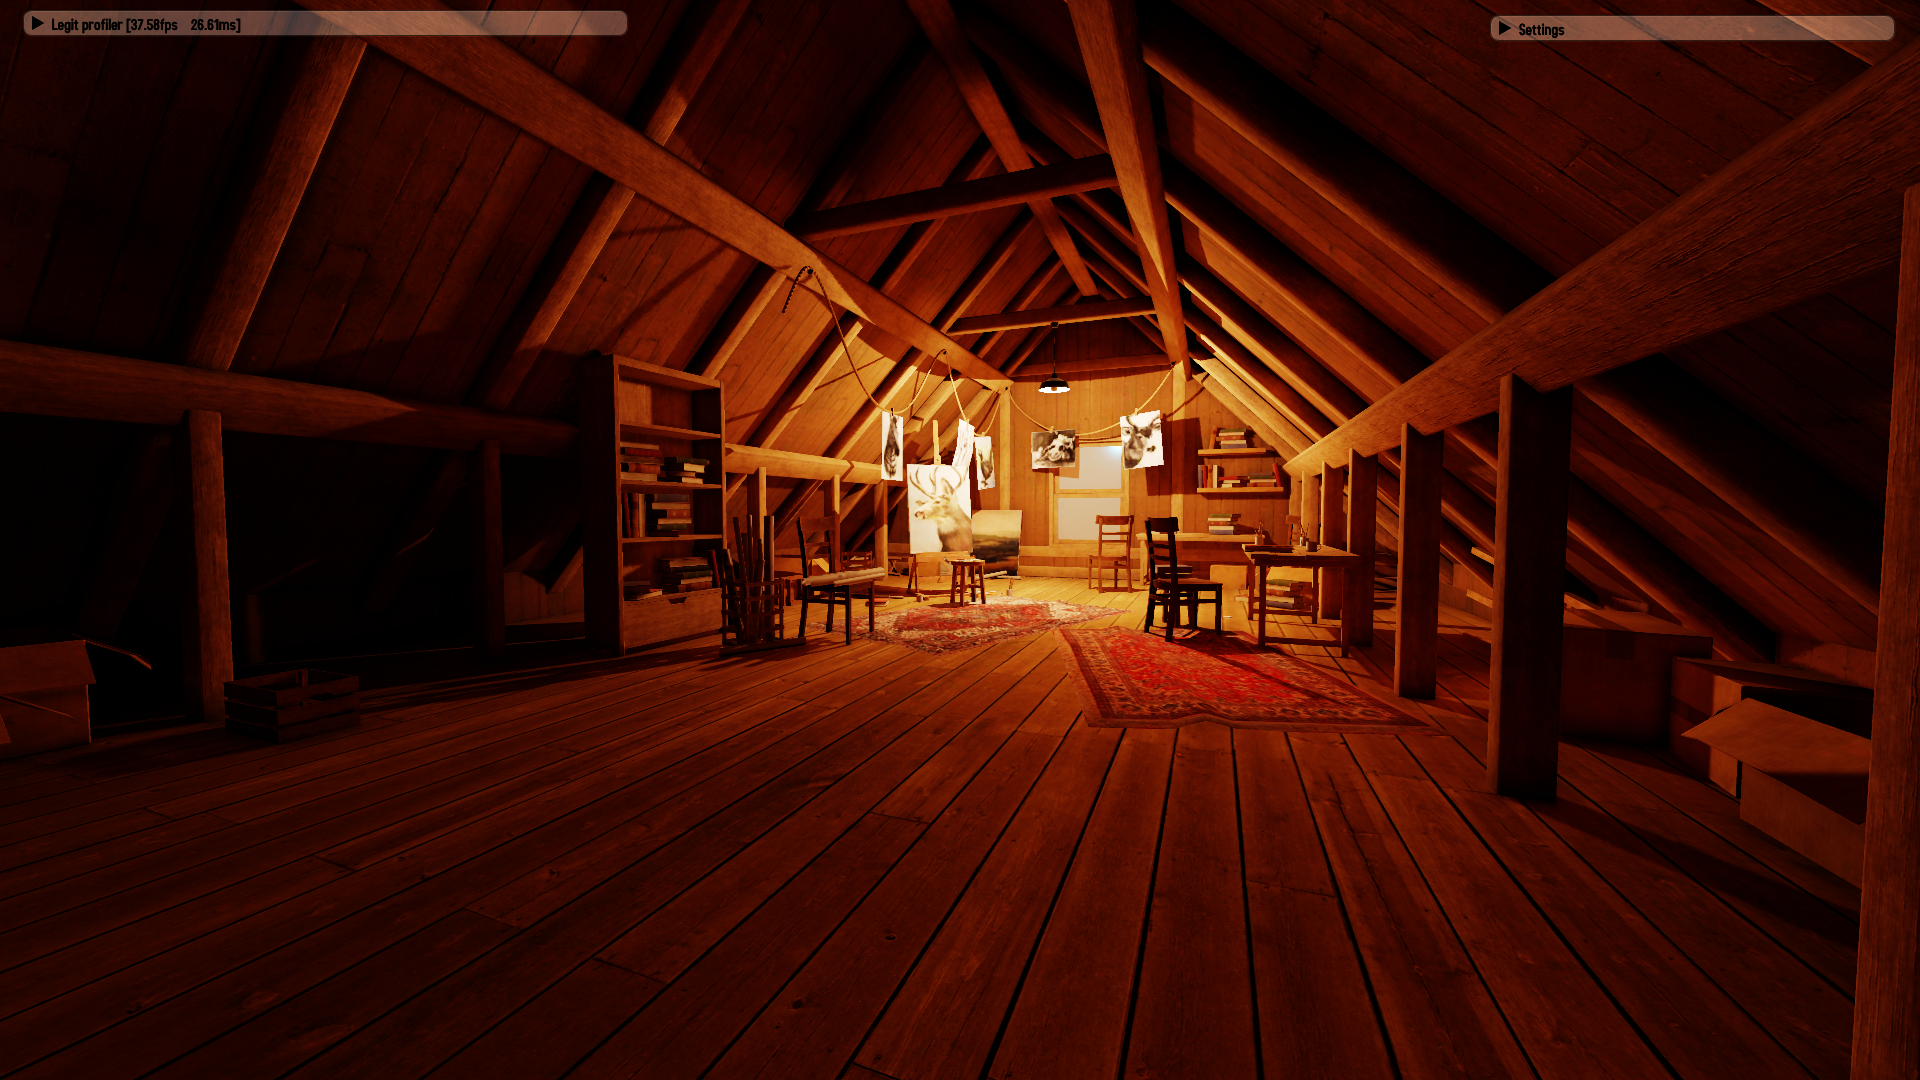
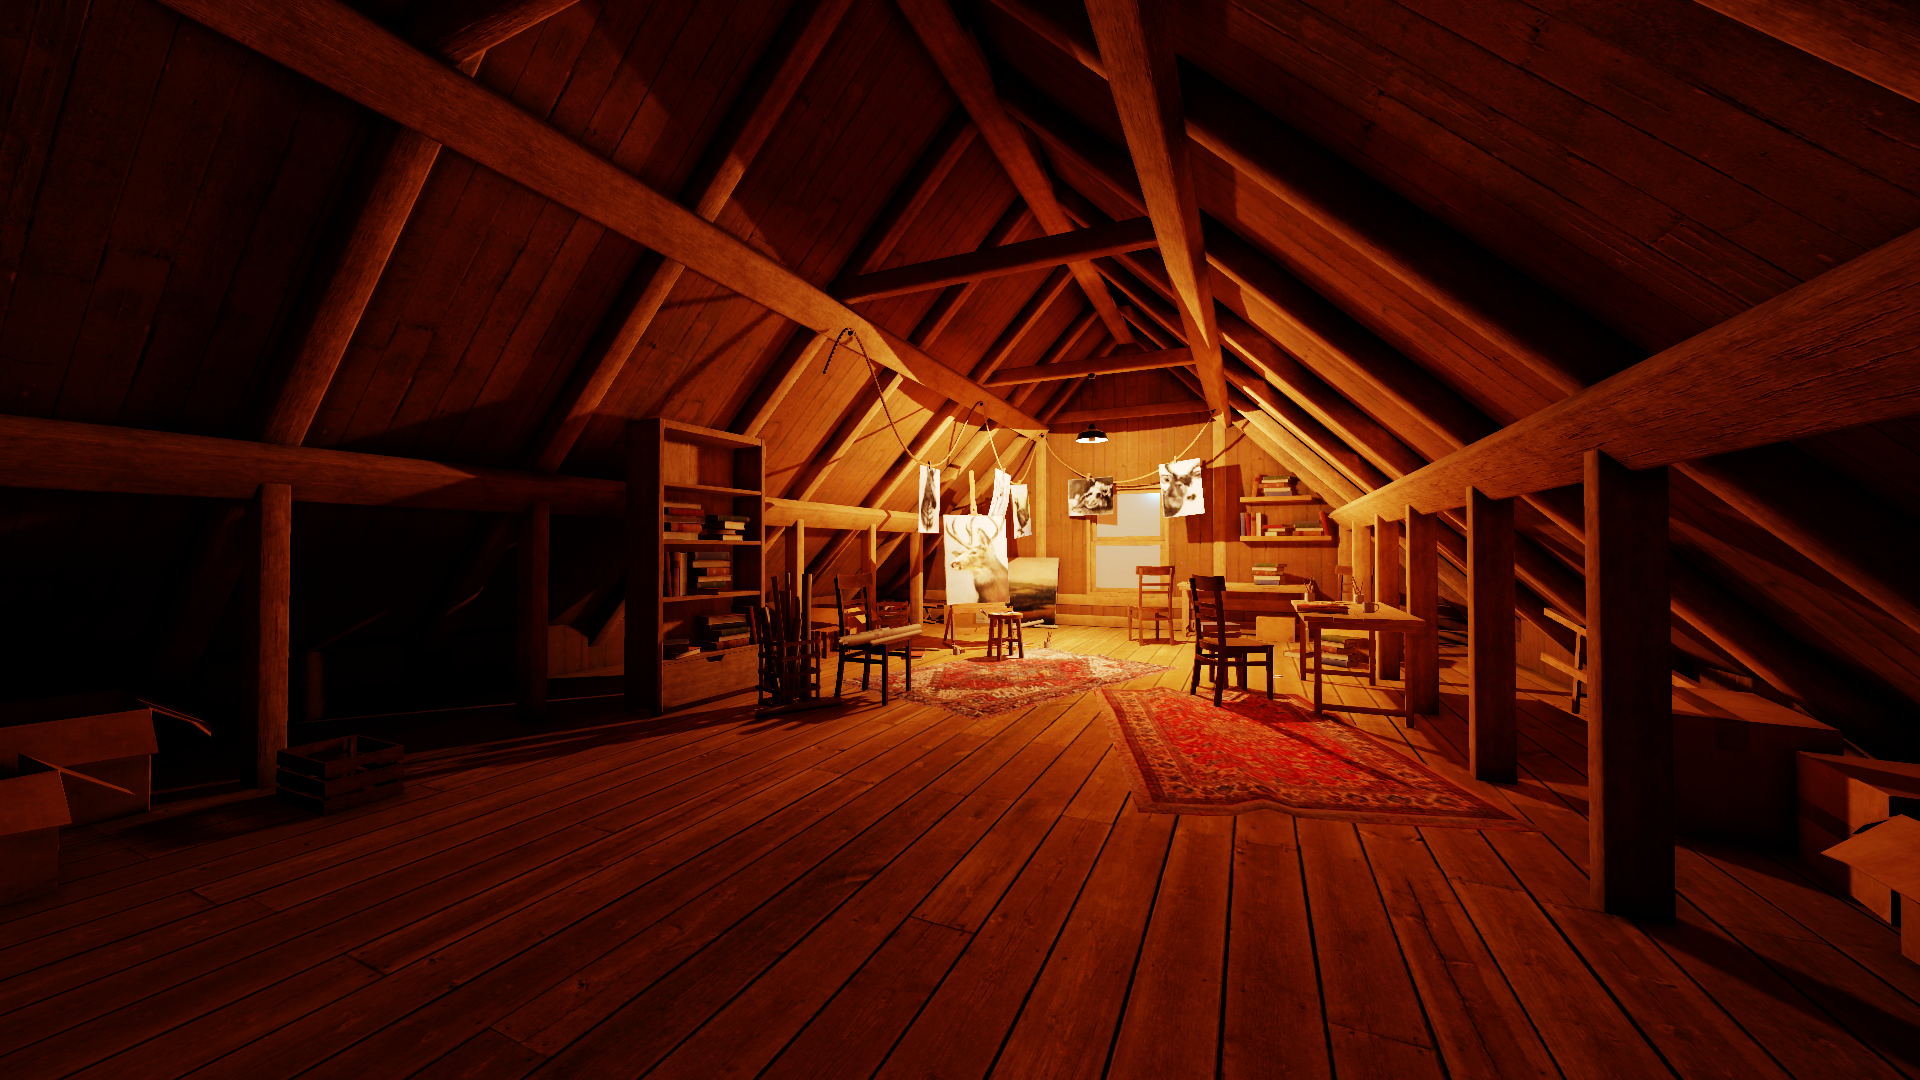
+image +small sync optimization

diff --git a/src/rendering/renderer/GI.h b/src/rendering/renderer/GI.h
@@ -46,9 +46,9 @@
 #define DDGI_PROBE_VISIBILITY_SIDE_SIZE 8
 #define DDGI_PROBE_LIGHT_SIDE_SIZE_WITH_BORDERS (DDGI_PROBE_LIGHT_SIDE_SIZE + 2)
 #define DDGI_PROBE_VISIBILITY_SIDE_SIZE_WITH_BORDERS (DDGI_PROBE_VISIBILITY_SIDE_SIZE + 2)
-#define DDGI_PROBE_X_COUNT 24
-#define DDGI_PROBE_Y_COUNT 24
-#define DDGI_PROBE_Z_COUNT 24
+#define DDGI_PROBE_X_COUNT 32
+#define DDGI_PROBE_Y_COUNT 32
+#define DDGI_PROBE_Z_COUNT 32
 #define DDGI_PROBE_X_DISTANCE float(OCCUPANCY_METER_SIZE / DDGI_PROBE_X_COUNT)
 #define DDGI_PROBE_Y_DISTANCE float(OCCUPANCY_METER_SIZE / DDGI_PROBE_Y_COUNT)
 #define DDGI_PROBE_Z_DISTANCE float(OCCUPANCY_METER_SIZE / DDGI_PROBE_Z_COUNT)
@@ -118,6 +118,8 @@ private:
 
 	uint32_t m_currentNewProbes{ 0 };
 	uint32_t m_currentBuffers{ 0 };
+
+	SyncOperations::EventHolder<1> m_events;
 
 	Clusterer* const m_clusterer{ nullptr };
 
@@ -310,14 +312,23 @@ public:
 		changeCurrentBuffers();
 
 		{
-			VkImageMemoryBarrier2 barriers[32]{};
+			constexpr int romCount{ ROM_NUMBER };
+			constexpr int sromCount{ STABLE_ROM_NUMBER };
+			VkImageMemoryBarrier2 barriers[romCount + sromCount]{};
 
-			for (int i{ 0 }; i < m_rayAlignedOccupancyMapArray.size(); ++i)
+			for (int i{ 0 }; i < romCount; ++i)
 			{
 				barriers[i] = SyncOperations::constructImageBarrier(VK_PIPELINE_STAGE_NONE, VK_PIPELINE_STAGE_COMPUTE_SHADER_BIT,
 					VK_ACCESS_NONE, VK_ACCESS_SHADER_WRITE_BIT,
 					VK_IMAGE_LAYOUT_UNDEFINED, VK_IMAGE_LAYOUT_GENERAL,
 					m_rayAlignedOccupancyMapArray[i].getImageHandle(), m_rayAlignedOccupancyMapArray[i].getSubresourceRange());
+			}
+			for (int i{ romCount }, j{ 0 }; i < romCount + sromCount; ++i, ++j)
+			{
+				barriers[i] = SyncOperations::constructImageBarrier(VK_PIPELINE_STAGE_NONE, VK_PIPELINE_STAGE_COMPUTE_SHADER_BIT,
+					VK_ACCESS_NONE, VK_ACCESS_SHADER_WRITE_BIT,
+					VK_IMAGE_LAYOUT_UNDEFINED, VK_IMAGE_LAYOUT_GENERAL,
+					m_rayAlignedOccupancyMapArrayStable[j].getImageHandle(), m_rayAlignedOccupancyMapArrayStable[j].getSubresourceRange());
 			}
 
 			SyncOperations::cmdExecuteBarrier(cb, barriers);
@@ -328,39 +339,47 @@ public:
 		if (profile) queries.cmdWriteEnd(cb, queryIndexGICreateROMA);
 
 		{
-			VkImageMemoryBarrier2 barriers[38]{};
-
-			for (int i{ 0 }; i < m_rayAlignedOccupancyMapArray.size(); ++i)
+			constexpr int romCount{ ROM_NUMBER };
+			constexpr int sromCount{ STABLE_ROM_NUMBER };
+			VkImageMemoryBarrier2 barriers[romCount + sromCount + 6]{};
+			for (int i{ 0 }; i < romCount; ++i)
 			{
 				barriers[i] = SyncOperations::constructImageBarrier(VK_PIPELINE_STAGE_COMPUTE_SHADER_BIT, VK_PIPELINE_STAGE_COMPUTE_SHADER_BIT,
 					VK_ACCESS_SHADER_WRITE_BIT, VK_ACCESS_SHADER_READ_BIT,
 					VK_IMAGE_LAYOUT_GENERAL, VK_IMAGE_LAYOUT_READ_ONLY_OPTIMAL,
 					m_rayAlignedOccupancyMapArray[i].getImageHandle(), m_rayAlignedOccupancyMapArray[i].getSubresourceRange());
 			}
+			for (int i{ romCount }, j{ 0 }; i < romCount + sromCount; ++i, ++j)
+			{
+				barriers[i] = SyncOperations::constructImageBarrier(VK_PIPELINE_STAGE_COMPUTE_SHADER_BIT, VK_PIPELINE_STAGE_COMPUTE_SHADER_BIT,
+					VK_ACCESS_SHADER_WRITE_BIT, VK_ACCESS_SHADER_READ_BIT,
+					VK_IMAGE_LAYOUT_GENERAL, VK_IMAGE_LAYOUT_READ_ONLY_OPTIMAL,
+					m_rayAlignedOccupancyMapArrayStable[j].getImageHandle(), m_rayAlignedOccupancyMapArrayStable[j].getSubresourceRange());
+			}
 
-			barriers[32] = SyncOperations::constructImageBarrier(VK_PIPELINE_STAGE_NONE, VK_PIPELINE_STAGE_COMPUTE_SHADER_BIT,
+			barriers[romCount + sromCount + 0] = SyncOperations::constructImageBarrier(VK_PIPELINE_STAGE_NONE, VK_PIPELINE_STAGE_COMPUTE_SHADER_BIT,
 				VK_ACCESS_NONE, VK_ACCESS_SHADER_WRITE_BIT,
 				VK_IMAGE_LAYOUT_UNDEFINED, VK_IMAGE_LAYOUT_GENERAL,
 				m_ddgiRadianceProbes.getImageHandle(), m_ddgiRadianceProbes.getSubresourceRange());
 
-			barriers[33] = SyncOperations::constructImageBarrier(VK_PIPELINE_STAGE_NONE, VK_PIPELINE_STAGE_COMPUTE_SHADER_BIT,
+			barriers[romCount + sromCount + 1] = SyncOperations::constructImageBarrier(VK_PIPELINE_STAGE_NONE, VK_PIPELINE_STAGE_COMPUTE_SHADER_BIT,
 				VK_ACCESS_NONE, VK_ACCESS_SHADER_WRITE_BIT,
 				VK_IMAGE_LAYOUT_UNDEFINED, VK_IMAGE_LAYOUT_GENERAL,
 				m_ddgiDistanceProbes.getImageHandle(), m_ddgiDistanceProbes.getSubresourceRange());
 
-			barriers[34] = SyncOperations::constructImageBarrier(VK_PIPELINE_STAGE_NONE, VK_PIPELINE_STAGE_COMPUTE_SHADER_BIT,
+			barriers[romCount + sromCount + 2] = SyncOperations::constructImageBarrier(VK_PIPELINE_STAGE_NONE, VK_PIPELINE_STAGE_COMPUTE_SHADER_BIT,
 				VK_ACCESS_NONE, VK_ACCESS_SHADER_READ_BIT,
 				VK_IMAGE_LAYOUT_GENERAL, VK_IMAGE_LAYOUT_READ_ONLY_OPTIMAL,
 				m_depthSpec.getImageHandle(), m_depthSpec.getSubresourceRange());
-			barriers[35] = SyncOperations::constructImageBarrier(VK_PIPELINE_STAGE_NONE, VK_PIPELINE_STAGE_COMPUTE_SHADER_BIT,
+			barriers[romCount + sromCount + 3] = SyncOperations::constructImageBarrier(VK_PIPELINE_STAGE_NONE, VK_PIPELINE_STAGE_COMPUTE_SHADER_BIT,
 				VK_ACCESS_NONE, VK_ACCESS_SHADER_READ_BIT,
 				VK_IMAGE_LAYOUT_GENERAL, VK_IMAGE_LAYOUT_READ_ONLY_OPTIMAL,
 				m_refdirSpec.getImageHandle(), m_refdirSpec.getSubresourceRange());
-			barriers[36] = SyncOperations::constructImageBarrier(VK_PIPELINE_STAGE_NONE, VK_PIPELINE_STAGE_COMPUTE_SHADER_BIT,
+			barriers[romCount + sromCount + 4] = SyncOperations::constructImageBarrier(VK_PIPELINE_STAGE_NONE, VK_PIPELINE_STAGE_COMPUTE_SHADER_BIT,
 				VK_ACCESS_NONE, VK_ACCESS_SHADER_WRITE_BIT,
 				VK_IMAGE_LAYOUT_UNDEFINED, VK_IMAGE_LAYOUT_GENERAL,
 				m_specularReflectionGlossy.getImageHandle(), m_specularReflectionGlossy.getSubresourceRange());
-			barriers[37] = SyncOperations::constructImageBarrier(VK_PIPELINE_STAGE_NONE, VK_PIPELINE_STAGE_COMPUTE_SHADER_BIT,
+			barriers[romCount + sromCount + 5] = SyncOperations::constructImageBarrier(VK_PIPELINE_STAGE_NONE, VK_PIPELINE_STAGE_COMPUTE_SHADER_BIT,
 				VK_ACCESS_NONE, VK_ACCESS_SHADER_WRITE_BIT,
 				VK_IMAGE_LAYOUT_UNDEFINED, VK_IMAGE_LAYOUT_GENERAL,
 				m_distToHit.getImageHandle(), m_distToHit.getSubresourceRange());
@@ -372,14 +391,10 @@ public:
 		cmdDispatchTraceProbes(cb, skyboxEnabled);
 		if (profile) queries.cmdWriteEnd(cb, queryIndexGITraceProbes);
 
-		if (profile) queries.cmdWriteStart(cb, queryIndexGITraceSpecular);
-		cmdDispatchTraceSpecular(cb, inverseViewProjectionMatrix, camPos, skyboxEnabled);
-		if (profile) queries.cmdWriteEnd(cb, queryIndexGITraceSpecular);
-
 		changeHistoryAndNewProbes();
-		uint32_t newProbes{ m_currentNewProbes };
+
 		{
-			VkImageMemoryBarrier2 barriers[9]{};
+			VkImageMemoryBarrier2 barriers[4]{};
 
 			barriers[0] = SyncOperations::constructImageBarrier(VK_PIPELINE_STAGE_COMPUTE_SHADER_BIT, VK_PIPELINE_STAGE_COMPUTE_SHADER_BIT,
 				VK_ACCESS_SHADER_WRITE_BIT, VK_ACCESS_SHADER_READ_BIT,
@@ -395,46 +410,60 @@ public:
 			barriers[2] = SyncOperations::constructImageBarrier(VK_PIPELINE_STAGE_NONE, VK_PIPELINE_STAGE_COMPUTE_SHADER_BIT,
 				VK_ACCESS_NONE, VK_ACCESS_SHADER_WRITE_BIT,
 				VK_IMAGE_LAYOUT_UNDEFINED, VK_IMAGE_LAYOUT_GENERAL,
-				m_ddgiIrradianceProbes[newProbes].getImageHandle(), m_ddgiIrradianceProbes[newProbes].getSubresourceRange());
+				m_ddgiIrradianceProbes[m_currentNewProbes].getImageHandle(), m_ddgiIrradianceProbes[m_currentNewProbes].getSubresourceRange());
 
 			barriers[3] = SyncOperations::constructImageBarrier(VK_PIPELINE_STAGE_NONE, VK_PIPELINE_STAGE_COMPUTE_SHADER_BIT,
 				VK_ACCESS_NONE, VK_ACCESS_SHADER_WRITE_BIT,
 				VK_IMAGE_LAYOUT_UNDEFINED, VK_IMAGE_LAYOUT_GENERAL,
-				m_ddgiVisibilityProbes[newProbes].getImageHandle(), m_ddgiVisibilityProbes[newProbes].getSubresourceRange());
+				m_ddgiVisibilityProbes[m_currentNewProbes].getImageHandle(), m_ddgiVisibilityProbes[m_currentNewProbes].getSubresourceRange());
 
-			
-			barriers[4] = SyncOperations::constructImageBarrier(VK_PIPELINE_STAGE_COMPUTE_SHADER_BIT, VK_PIPELINE_STAGE_NONE,
+			VkDependencyInfo probeDependency{ SyncOperations::createDependencyInfo(barriers) };
+
+			m_events.cmdSet(cb, 0, probeDependency);
+
+			if (profile) queries.cmdWriteStart(cb, queryIndexGITraceSpecular);
+			cmdDispatchTraceSpecular(cb, inverseViewProjectionMatrix, camPos, skyboxEnabled);
+			if (profile) queries.cmdWriteEnd(cb, queryIndexGITraceSpecular);
+
+
+			uint32_t indices[]{ 0 };
+			m_events.cmdWait(cb, 1, indices, &probeDependency);
+		}
+
+		if (profile) queries.cmdWriteStart(cb, queryIndexGIComputeIrradianceAndVisibility);
+		cmdDispatchComputeIrradianceAndVisibility(cb);
+		if (profile) queries.cmdWriteEnd(cb, queryIndexGIComputeIrradianceAndVisibility);
+
+		{
+			VkImageMemoryBarrier2 barriers[5]{};
+
+			barriers[0] = SyncOperations::constructImageBarrier(VK_PIPELINE_STAGE_COMPUTE_SHADER_BIT, VK_PIPELINE_STAGE_NONE,
 				VK_ACCESS_SHADER_READ_BIT, VK_ACCESS_NONE,
 				VK_IMAGE_LAYOUT_READ_ONLY_OPTIMAL, VK_IMAGE_LAYOUT_GENERAL,
 				m_depthSpec.getImageHandle(), m_depthSpec.getSubresourceRange());
-			
-			barriers[5] = SyncOperations::constructImageBarrier(VK_PIPELINE_STAGE_COMPUTE_SHADER_BIT, VK_PIPELINE_STAGE_NONE,
+
+			barriers[1] = SyncOperations::constructImageBarrier(VK_PIPELINE_STAGE_COMPUTE_SHADER_BIT, VK_PIPELINE_STAGE_NONE,
 				VK_ACCESS_SHADER_READ_BIT, VK_ACCESS_NONE,
 				VK_IMAGE_LAYOUT_READ_ONLY_OPTIMAL, VK_IMAGE_LAYOUT_GENERAL,
 				m_refdirSpec.getImageHandle(), m_refdirSpec.getSubresourceRange());
-			
-			barriers[6] = SyncOperations::constructImageBarrier(VK_PIPELINE_STAGE_COMPUTE_SHADER_BIT, VK_PIPELINE_STAGE_NONE,
+
+			barriers[2] = SyncOperations::constructImageBarrier(VK_PIPELINE_STAGE_COMPUTE_SHADER_BIT, VK_PIPELINE_STAGE_NONE,
 				VK_ACCESS_SHADER_WRITE_BIT, VK_ACCESS_NONE,
 				VK_IMAGE_LAYOUT_GENERAL, VK_IMAGE_LAYOUT_READ_ONLY_OPTIMAL,
 				m_specularReflectionGlossy.getImageHandle(), m_specularReflectionGlossy.getSubresourceRange());
-			
-			barriers[7] = SyncOperations::constructImageBarrier(VK_PIPELINE_STAGE_COMPUTE_SHADER_BIT, VK_PIPELINE_STAGE_NONE,
+
+			barriers[3] = SyncOperations::constructImageBarrier(VK_PIPELINE_STAGE_COMPUTE_SHADER_BIT, VK_PIPELINE_STAGE_NONE,
 				VK_ACCESS_SHADER_WRITE_BIT, VK_ACCESS_NONE,
 				VK_IMAGE_LAYOUT_GENERAL, VK_IMAGE_LAYOUT_READ_ONLY_OPTIMAL,
 				m_distToHit.getImageHandle(), m_distToHit.getSubresourceRange());
 
-
-			barriers[8] = SyncOperations::constructImageBarrier(VK_PIPELINE_STAGE_NONE, VK_PIPELINE_STAGE_COMPUTE_SHADER_BIT,
+			barriers[4] = SyncOperations::constructImageBarrier(VK_PIPELINE_STAGE_NONE, VK_PIPELINE_STAGE_COMPUTE_SHADER_BIT,
 				VK_ACCESS_NONE, VK_ACCESS_SHADER_READ_BIT,
 				VK_IMAGE_LAYOUT_UNDEFINED, VK_IMAGE_LAYOUT_GENERAL,
 				m_specularReflectionRough.getImageHandle(), m_specularReflectionRough.getSubresourceRange());
 
 			SyncOperations::cmdExecuteBarrier(cb, barriers);
 		}
-
-		if (profile) queries.cmdWriteStart(cb, queryIndexGIComputeIrradianceAndVisibility);
-		cmdDispatchComputeIrradianceAndVisibility(cb);
-		if (profile) queries.cmdWriteEnd(cb, queryIndexGIComputeIrradianceAndVisibility);
 
 		cmdDispatchBlurSpecular(cb);
 
@@ -444,12 +473,12 @@ public:
 			barriers[0] = SyncOperations::constructImageBarrier(VK_PIPELINE_STAGE_COMPUTE_SHADER_BIT, VK_PIPELINE_STAGE_NONE,
 				VK_ACCESS_SHADER_WRITE_BIT, VK_ACCESS_NONE,
 				VK_IMAGE_LAYOUT_GENERAL, VK_IMAGE_LAYOUT_READ_ONLY_OPTIMAL,
-				m_ddgiIrradianceProbes[newProbes].getImageHandle(), m_ddgiIrradianceProbes[newProbes].getSubresourceRange());
+				m_ddgiIrradianceProbes[m_currentNewProbes].getImageHandle(), m_ddgiIrradianceProbes[m_currentNewProbes].getSubresourceRange());
 
 			barriers[1] = SyncOperations::constructImageBarrier(VK_PIPELINE_STAGE_COMPUTE_SHADER_BIT, VK_PIPELINE_STAGE_NONE,
 				VK_ACCESS_SHADER_WRITE_BIT, VK_ACCESS_NONE,
 				VK_IMAGE_LAYOUT_GENERAL, VK_IMAGE_LAYOUT_READ_ONLY_OPTIMAL,
-				m_ddgiVisibilityProbes[newProbes].getImageHandle(), m_ddgiVisibilityProbes[newProbes].getSubresourceRange());
+				m_ddgiVisibilityProbes[m_currentNewProbes].getImageHandle(), m_ddgiVisibilityProbes[m_currentNewProbes].getSubresourceRange());
 
 			barriers[2] = SyncOperations::constructImageBarrier(VK_PIPELINE_STAGE_COMPUTE_SHADER_BIT, VK_PIPELINE_STAGE_NONE,
 				VK_ACCESS_SHADER_WRITE_BIT, VK_ACCESS_NONE,

diff --git a/src/main/main.cpp b/src/main/main.cpp
@@ -173,7 +173,7 @@ int main()
 	BufferBaseHostAccessible baseHostBuffer{ device, GENERAL_BUFFER_DEFAULT_SIZE, 
 		VK_BUFFER_USAGE_VERTEX_BUFFER_BIT | VK_BUFFER_USAGE_UNIFORM_BUFFER_BIT | VK_BUFFER_USAGE_TRANSFER_SRC_BIT | VK_BUFFER_USAGE_TRANSFER_DST_BIT | VK_BUFFER_USAGE_SHADER_DEVICE_ADDRESS_BIT };
 	BufferBaseHostAccessible baseHostCachedBuffer{ device, GENERAL_BUFFER_DEFAULT_SIZE, 
-		VK_BUFFER_USAGE_INDIRECT_BUFFER_BIT | VK_BUFFER_USAGE_TRANSFER_SRC_BIT | VK_BUFFER_USAGE_SHADER_DEVICE_ADDRESS_BIT, BufferBase::DEDICATED_FLAG, false, true };
+		VK_BUFFER_USAGE_INDIRECT_BUFFER_BIT | VK_BUFFER_USAGE_TRANSFER_SRC_BIT | VK_BUFFER_USAGE_TRANSFER_DST_BIT | VK_BUFFER_USAGE_SHADER_DEVICE_ADDRESS_BIT, BufferBase::DEDICATED_FLAG, false, true };
 
 	std::vector<fs::path> modelPaths{};
 	std::vector<glm::mat4> modelMatrices{};

diff --git a/src/rendering/renderer/GI.cpp b/src/rendering/renderer/GI.cpp
@@ -61,6 +61,7 @@ GI::GI(VkDevice device, uint32_t windowWidth, uint32_t windowHeight, BufferBaseH
 	m_stableROMAtransformMatrices{ {baseHostBuffer, sizeof(glm::mat4x3) * 8}, {baseHostBuffer, sizeof(glm::mat4x3) * 8} },
 	m_mappedDirections{ {baseHostBuffer, sizeof(glm::vec4) * DDGI_PROBE_LIGHT_SIDE_SIZE * DDGI_PROBE_LIGHT_SIDE_SIZE}, {baseHostBuffer, sizeof(glm::vec4) * DDGI_PROBE_LIGHT_SIDE_SIZE * DDGI_PROBE_LIGHT_SIDE_SIZE} },
 	m_giMetadata{ baseHostBuffer, sizeof(GIMetaData) },
+	m_events{ device },
 	m_clusterer{ &clusterer }
 {
 }
